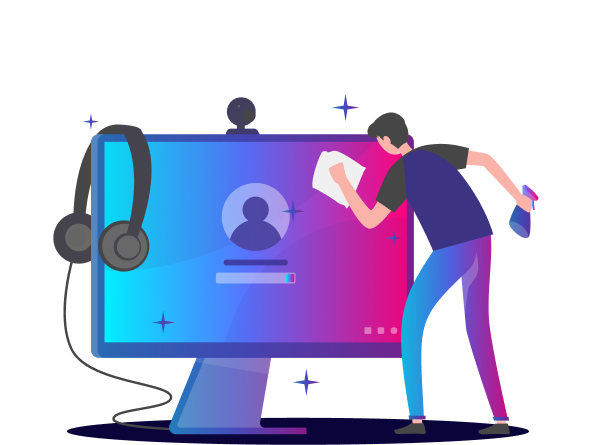
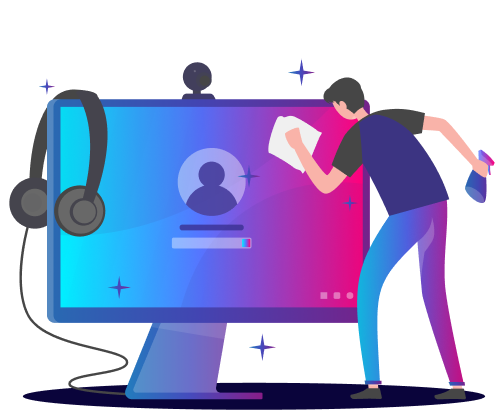
Fixed Style FLow of the image wont fit the screen on mobile devices well

diff --git a/src/styles/webAi.scss b/src/styles/webAi.scss
@@ -1,10 +1,8 @@
 .mk__webAi {
-  @include flex(space-between, center);
+  @include flex(center, center);
 
   max-width: 1350px;
-  margin: 200px auto 0;
-
-  height: 270px;
+  margin: 100px auto 0;
 
   padding: 0 4rem;
   @media (max-width: 550px) {
@@ -17,8 +15,8 @@
 
   &--info {
     flex: 1;
-    @include flex(space-between, center);
-    height: 100%;
+    @include flex(center, center);
+
     margin-right: 20px;
 
     .text {
@@ -47,7 +45,7 @@
     background-color: $white-color;
 
     width: 10px;
-    height: 100%;
+    height: 271px;
 
     border-radius: 50px;
     margin-right: 30px;
@@ -57,19 +55,22 @@
 
   &--image {
     flex: 1;
-    @include flex(flex-end, flex-end);
+    @include flex(flex-start, flex-start);
+
+    height: 371px;
 
     @media (max-width: 997px) {
-      flex: 0;
+      @include flex(center, center);
 
       width: 100%;
-      margin: 300px 0 100px;
+      margin: 0px 0 100px;
 
-      @include flex(center, center);
+      img {
+        width: 100%;
+      }
     }
 
     img {
-      width: 100%;
       height: 100%;
     }
   }

diff --git a/src/styles/interface.scss b/src/styles/interface.scss
@@ -1,10 +1,8 @@
 .mk__interface {
-  @include flex(space-between, center);
+  @include flex(center, center);
 
   max-width: 1350px;
-  margin: 200px auto 0;
-
-  height: 270px;
+  margin: 100px auto 0;
 
   padding: 0 4rem;
   @media (max-width: 550px) {
@@ -18,6 +16,7 @@
   &--info {
     flex: 1;
     @include flex(space-between, center);
+
     height: 100%;
     margin-right: 20px;
 
@@ -47,7 +46,7 @@
     background-color: $white-color;
 
     width: 10px;
-    height: 100%;
+    height: 270px;
 
     border-radius: 50px;
     margin-right: 30px;
@@ -58,18 +57,20 @@
   &--image {
     flex: 1;
     @include flex(flex-end, flex-end);
+    height: 271px;
 
     @media (max-width: 997px) {
-      flex: 0;
+      @include flex(center, center);
 
       width: 100%;
       margin-top: 100px;
 
-      @include flex(center, center);
+      img {
+        width: 100%;
+      }
     }
 
     img {
-      width: 100%;
       height: 100%;
     }
   }
